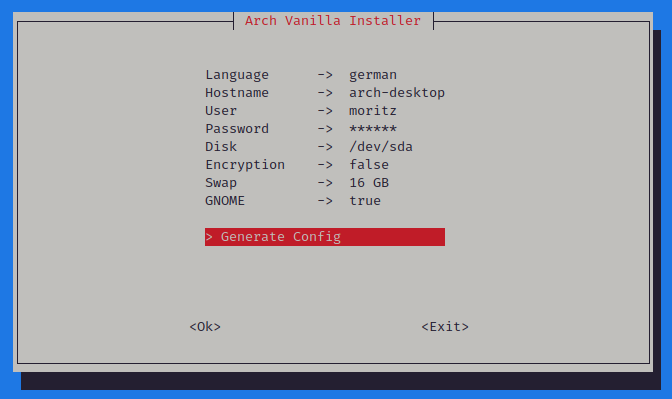
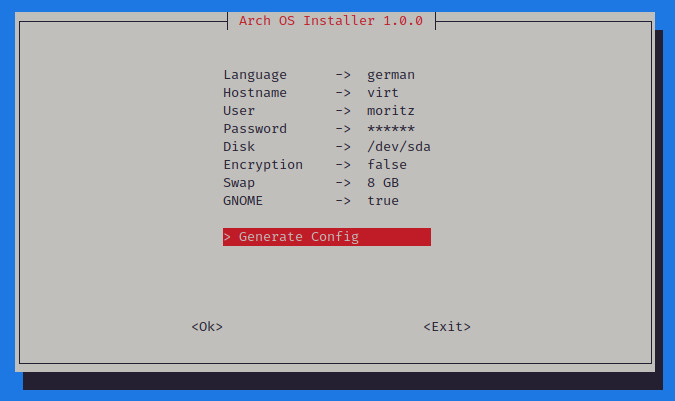
arch-1.0.0

diff --git a/docs/README.md b/docs/README.md
@@ -1,7 +1,7 @@
 <h1 align="center">
   <img src="./logo.svg" width="150" height="150"/>
   <br>
-  Arch Vanilla OS
+  Arch OS
 </h1>
 
 <p align="center">
@@ -90,7 +90,7 @@ Installs a Arch Linux Distribution including GNOME, preinstalled Paru as AUR Hel
 
 - Load Keyboard Layout: `loadkeys de-latin1` (use prefered language)
 - Connect to WLAN (optional), run `iwctl` and type into console: `station wlan0 connect "SSID"` and `exit`
-- Run **Arch Vanilla Installer** with: `curl -Ls http://arch.webhop.me | bash`
+- Run **Arch OS Installer** with: `curl -Ls http://arch.webhop.me | bash`
 - Installation finished
 
 ### Installation Properties (optional)
